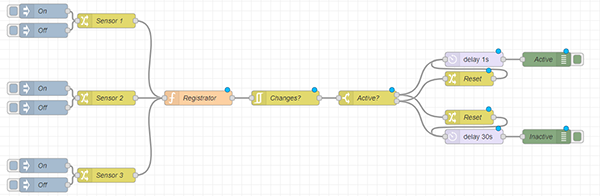
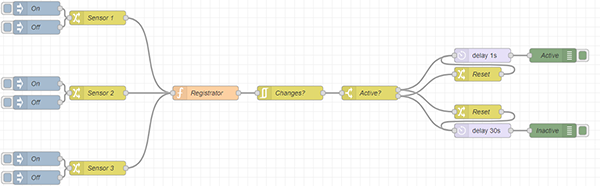
Updated documentation

Changed region(s): [[0.0, 0.2419, 0.99, 0.7527], [0.0, 0.6989, 0.27, 0.9946], [0.0, 0.0, 0.27, 0.2957]]

diff --git a/multiSensor.js b/multiSensor.js
@@ -30,9 +30,9 @@ module.exports = function(RED) {
         var customStatus;
         var origMsg;
 
-        function get(id) {
+        function get(id, noCreate) {
             var s = sensors.find(function(s) { return s.id==id; });
-            if (!s) {
+            if (!s && !noCreate) {
                 s = {id:id, active:false};
                 sensors.push(s);
             }
@@ -167,9 +167,8 @@ module.exports = function(RED) {
             var activeValue = RED.util.evaluateNodeProperty(config.activeValue, config.activeType, node, msg);
             var inactiveValue = RED.util.evaluateNodeProperty(config.inactiveValue, config.inactiveType, node, msg);
             
-            var s = get(id);
-
             if (inputValue == activeValue) {
+                var s = get(id);
                 var a = countActive();
                 // If same state, then do nothing
                 if (s.active)
@@ -183,8 +182,10 @@ module.exports = function(RED) {
                 }
                 
             } else if (inputValue == inactiveValue) {
+                var s = get(id, true);
+
                 // If same state, then do nothing
-                if (!s.active)
+                if (!s || !s.active)
                     return;
                 
                 s.active = false;
@@ -193,7 +194,7 @@ module.exports = function(RED) {
                     sendOnInactive(msg);
 
             } else {
-                node.warn('Neither active nor inactive');
+                node.debug('Neither active nor inactive');
             }
 
             customStatus = msg.status;

diff --git a/README.md b/README.md
@@ -22,35 +22,64 @@ This node is a companion for any binary sensor (physical or virtual), storing al
 ## Usage
 
 ![node-explain](assets/explain_large.png "Node explaination")
-To give a glimse on how the node works, we can take a look at this.
+**Fig. 3:** Node explaination
+To give an understanding on how the node works, we can take a look at this where you have three sensors that will enter a registration object that will store data about all sensors. Then it continues to check if any changes has been made to the state, if so, we check if we're active or inactive.
+We need to ensure that the opposite timer is reset (if we use one).
+This flow is merged down into a single node to ease and speed up the view.
 
+![node-appearance](assets/node-appearance.png "Node appearance")  
+**Fig. 1:** Node appearance
+The node has two or three output channels *(by default, it uses two)*.
+The last output channel here is the "status" channel, this one informs about the current state.
+These states matches the structure:
+ `{"id":x, "name":name}`
+
+The different id's are:
+* 0.   Inactive
+* 1.   Active
+* 2.   Activating
+* 3.   Deactivating
+* 130. Abort activation
+* 131. Abort deactivation
 
 <a name="node_configuration"></a>
 ### Node Configuration
-The node configuration sets the active on/off/toggle keywords as well as optional topic names.
+The node configuration sets up how the sensor should react.
 
 ![node-settings](assets/node-settings.png "Node properties")  
 **Fig. 2:** Node properties
 
-#### ON value / OFF value / Toggle value
-These attributes can be of type
-* string
-* number
-* boolean
+#### Name (optional)
+*(Optional)* The name of this node. *(Will change the content of the node to the name)*
 
-They are set to the values you want to be the keywords within `msg.payload` when the actions **switch to ON**, **switch to OFF** and **toggle** shall take place (*execution command*).
+#### Identifier
+The data field that should be used to uniquely identify a sensor.
+Each sensor should have their own unique identifier that this node can use as an id to differentiate it from each other.
 
-**Remark:** If you do not set a value to one of the attributes the according method (e.g. switch ON) can not be executed by the node (it needs a value to compare...).
+#### Input
+The value to read and validate against the **Activate on** and **Deactivate on** values.
+* If the input value doesn't match any of the two values, it will be ignored.
+* If matches the **Activate on** value, it will use the **Identifier** to create a record with an active flag.
+* If matches the **Deactivate on** value, it will try to find an already created record with the current **Identifier** to deactivate the flag.
 
-#### On/Off topic resp. Toggle topic (optional)
-If you set the topic attributes to a value, the input `msg` needs to contain the same topic name to execute **On/Off** resp. **toggle** in addition to the `msg.payload` value containing the execution command.
+#### Activate on / Deactivate on
+The **input** value needs to match one of these fieds to trigger an action.
+As explained for the **input** field, the activation and deactivion will only take place if matching one of these fields.
 
-#### Pass through ON/OFF messages
-The node has three pass through modes:  
- - ***No*** - means that node sends an output `msg` only when state is toggled. ON/OFF input messages just update internal state of the node.
- - ***If changed*** - sends an output `msg` for ON/OFF input message only once it differs from the previous state. And obviously message is always sent for "toggle" message.
- - ***Always*** - the output `msg` is always sent as a reaction on an input `msg`.
+#### Send on active
+As soon as a message where the **input** matches the **Activate on** value, will trigger the activation of the node.
+The data specified in this field will then be sent, either directly or when **Activate delay** time has passed *(If not being deactivated before, then the activation will be canceled out)*.
 
+#### Send on inactive
+When the last active sensor record is received and its **input** value matches the **Deactivate on** value, the deactivation of the node will be executed.
+The data specified in this field will then be sent, either directly or when **Deactivate delay** time has passed *(If not a sensor is being activated again, then the deactivation will be canceled out)*.
+
+#### Activate delay / Deactivate delay
+The delays are there to enable a latency between the actual event and the message being sent.
+You can here choose if to directly send the message when activated/deactivated, or wait a specified amount.
+
+#### Seperated outputs
+If checked, there will be a different channel for the deactivation messages. Otherwise, if unchecked, the activation and deactivation messages will be sent through the same output channel.
 
 <a name="input"></a>
 ### Input
@@ -69,6 +98,11 @@ An example `msg` contents is shown for ***On/Off topic*** = "onofftopic":
 ### Output
 The input `msg` is forwarded to the output, if a valid switch command was detected.  
 The configuration attribute ***pass through ON/OFF messages*** is taken into account.
+
+These attributes can be of type
+* string
+* number
+* boolean
 
 
 ### Node status
